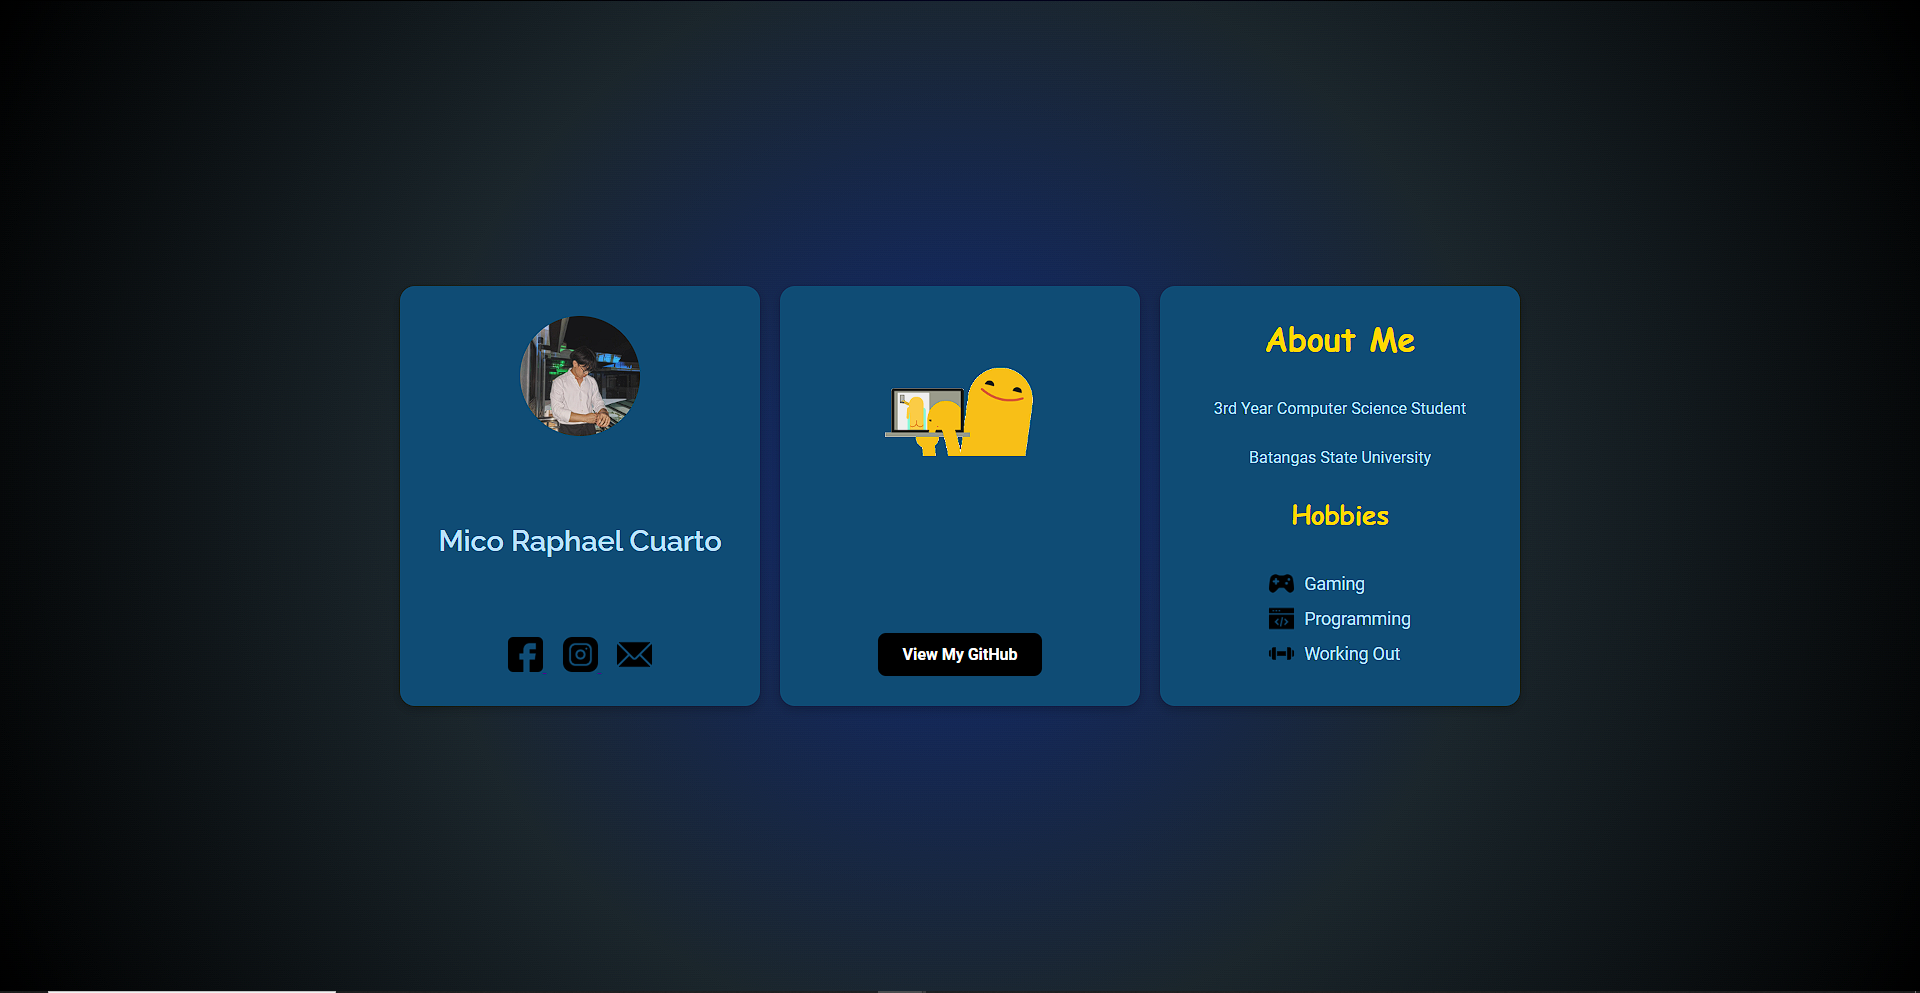
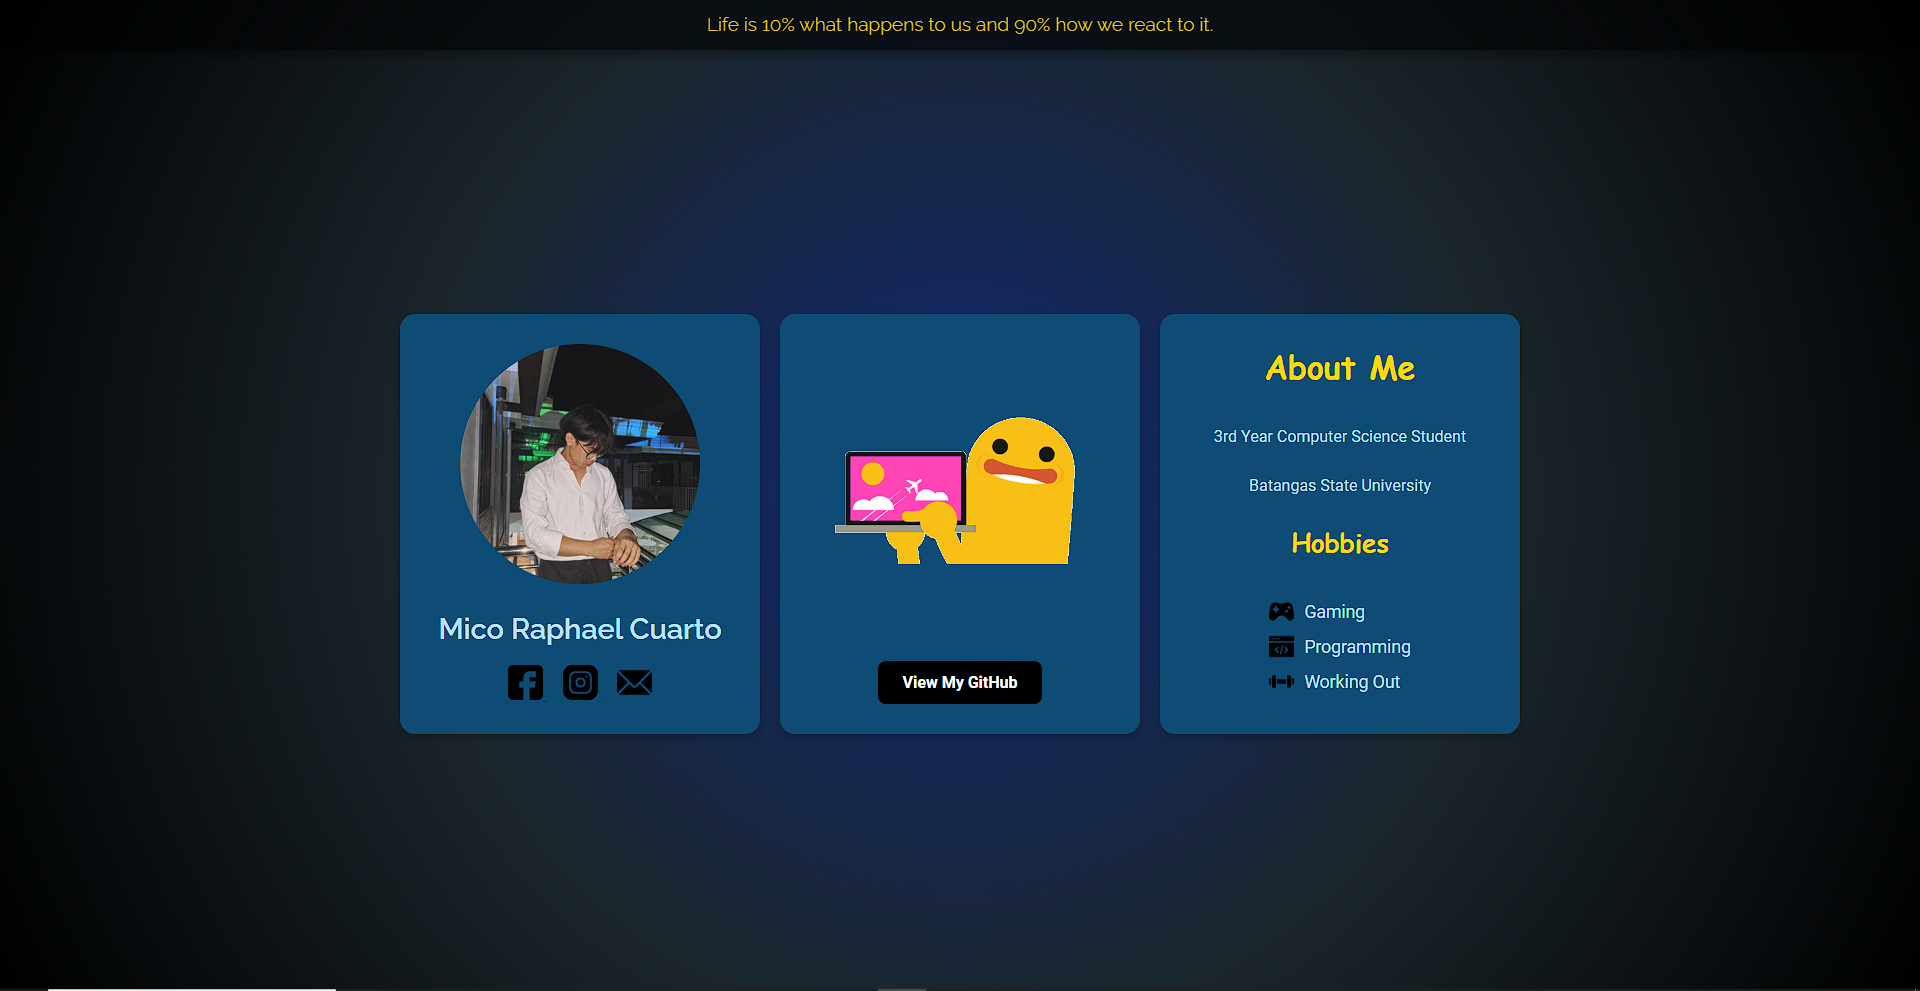
Submit final lab act 4

Changed region(s): [[0.1875, 0.2725, 0.8125, 0.7568], [0.2812, 0.0, 0.7188, 0.0605], [0.4375, 0.3633, 0.5625, 0.5752]]

diff --git a/Laboratory Activities/Laboratory Activity 4 {November 28, 2024}}/scripts.js b/Laboratory Activities/Laboratory Activity 4 {November 28, 2024}}/scripts.js
@@ -1,0 +1,82 @@
+const socialIcons = document.querySelectorAll('.social-links img');
+socialIcons.forEach(icon => {
+    icon.addEventListener('mouseover', () => {
+        icon.style.transform = 'scale(1.2)';
+        setTimeout(() => {
+            icon.style.transform = 'scale(1)';
+        }, 200);
+    });
+});
+
+
+const profileIcon = document.querySelector('.profile-icon');
+const modal = document.createElement('div');
+modal.innerHTML = `
+    <div style="position: fixed; top: 0; left: 0; width: 100%; height: 100%; background: rgba(0, 0, 0, 0.8); display: flex; justify-content: center; align-items: center; z-index: 1000;">
+        <img src="assets/profile.jpg" alt="Profile" style="max-width: 90%; max-height: 90%; border-radius: 10px;">
+    </div>
+`;
+modal.style.display = 'none';
+document.body.appendChild(modal);
+
+profileIcon.addEventListener('click', () => {
+    modal.style.display = 'flex';
+});
+
+modal.addEventListener('click', () => {
+    modal.style.display = 'none';
+});
+
+const githubButton = document.querySelector('.btn');
+githubButton.addEventListener('click', function (e) {
+    const rect = this.getBoundingClientRect();
+    const ripple = document.createElement('span');
+    ripple.style.left = `${e.clientX - rect.left}px`;
+    ripple.style.top = `${e.clientY - rect.top}px`;
+    ripple.classList.add('ripple');
+    this.appendChild(ripple);
+
+    setTimeout(() => {
+        ripple.remove();
+    }, 600);
+});
+
+const quotes = [
+    "The only limit to our realization of tomorrow is our doubts of today.",
+    "Success is not final, failure is not fatal: It is the courage to continue that counts.",
+    "Believe you can and you're halfway there.",
+    "It does not matter how slowly you go as long as you do not stop.",
+    "Act as if what you do makes a difference. It does.",
+    "The best way to predict the future is to create it.",
+    "Hardships often prepare ordinary people for an extraordinary destiny.",
+    "Doubt kills more dreams than failure ever will.",
+    "Dream big and dare to fail.",
+    "The only way to do great work is to love what you do.",
+    "You are never too old to set another goal or to dream a new dream.",
+    "Opportunities don't happen. You create them.",
+    "Your time is limited, so don't waste it living someone else's life.",
+    "Start where you are. Use what you have. Do what you can.",
+    "Success usually comes to those who are too busy to be looking for it.",
+    "Don’t watch the clock; do what it does. Keep going.",
+    "The way to get started is to quit talking and begin doing.",
+    "Perseverance is not a long race; it is many short races one after the other.",
+    "Life is 10% what happens to us and 90% how we react to it.",
+    "If you want to achieve greatness stop asking for permission.",
+    "The best time to plant a tree was 20 years ago. The second best time is now.",
+    "Don’t let yesterday take up too much of today.",
+    "Success is not how high you have climbed, but how you make a positive difference to the world.",
+    "The future belongs to those who believe in the beauty of their dreams.",
+    "You don't have to be great to start, but you have to start to be great.",
+    "Everything you’ve ever wanted is on the other side of fear.",
+    "Challenges are what make life interesting, and overcoming them is what makes life meaningful.",
+    "If you want to go fast, go alone. If you want to go far, go together."
+];
+
+
+function displayRandomQuote() {
+    const quoteContainer = document.getElementById('quote-container');
+    const randomQuote = quotes[Math.floor(Math.random() * quotes.length)];
+    quoteContainer.textContent = randomQuote;
+}
+
+window.onload = displayRandomQuote;

diff --git a/Laboratory Activities/Laboratory Activity 4 {November 28, 2024}}/styles.css b/Laboratory Activities/Laboratory Activity 4 {November 28, 2024}}/styles.css
@@ -15,6 +15,22 @@ body {
     min-height: 100vh;
 }
 
+#quote-container {
+    position: fixed;
+    top: 0;
+    width: 100%;
+    background-color: rgba(0, 0, 0, 0.6);
+    color: #FFD700;
+    font-family: 'Raleway', sans-serif;
+    text-align: center;
+    padding: 15px;
+    box-shadow: 0 4px 10px rgba(0, 0, 0, 0.4);
+    border-radius: 0 0 10px 10px;
+    font-size: 1.2rem;
+    z-index: 1000;
+    border-top: 50px;
+}
+
 /* Container */
 .container {
     display: flex;
@@ -23,9 +39,10 @@ body {
     align-items: flex-start;
     flex-wrap: wrap;
     max-width: 1200px;
-    padding: 20px;
+    padding: 80px 20px 20px; 
     width: 100%;
 }
+
 
 /* Box Styles */
 .box {
@@ -44,7 +61,7 @@ body {
     transition: transform 0.3s, box-shadow 0.3s;
 }
 
-/* Hover Effect */
+/* Hover */
 .box:hover {
     transform: translateY(-10px);
     box-shadow: 0 10px 20px rgba(0, 0, 0, 0.4);
@@ -52,8 +69,8 @@ body {
 
 /* Profile Card */
 .profile-icon {
-    width: 120px;
-    height: 120px;
+    width: 240px;
+    height: 240px;
     border-radius: 50%;
     background-color: #BBE1FA;
     background-image: url('assets/profile.jpg');
@@ -85,8 +102,8 @@ body {
 
 /* Intro Card */
 .intro-card img {
-    width: 150px;
-    height: 150px;
+    width: 250px;
+    height: 250px;
     object-fit: contain;
     margin: 20px auto;
 }
@@ -134,15 +151,47 @@ body {
     display: flex;
     align-items: center;
     margin-bottom: 10px;
+    transition: transform 0.3s;
 }
 
 .hobbies-card ul img {
     width: 25px;
     height: 25px;
     margin-right: 10px;
+    transition: transform 0.3s, filter 0.3s;
 }
 
-/* Responsive Design */
+.hobbies-card ul li:hover {
+    transform: scale(1.05);
+}
+
+.hobbies-card ul li:hover img {
+    transform: rotate(15deg);
+    filter: brightness(1.3);
+}
+
+.btn .ripple {
+    position: absolute;
+    border-radius: 50%;
+    background: rgba(255, 255, 255, 0.6);
+    width: 20px;
+    height: 20px;
+    animation: ripple-animation 0.6s linear;
+}
+
+@keyframes ripple-animation {
+    from {
+        transform: scale(0);
+        opacity: 1;
+    }
+    to {
+        transform: scale(4);
+        opacity: 0;
+    }
+}
+
+
+/* Responsiveness */
 @media (max-width: 768px) {
     .box {
         flex: 1 1 90%;

diff --git a/Laboratory Activities/Laboratory Activity 4 {November 28, 2024}}/index.html b/Laboratory Activities/Laboratory Activity 4 {November 28, 2024}}/index.html
@@ -8,6 +8,7 @@
     <link href="https://fonts.googleapis.com/css2?family=Roboto:wght@400;500;700&family=Raleway:wght@300;600&display=swap" rel="stylesheet">
 </head>
 <body>
+    <div id="quote-container"></div> <!-- Quote container stays at the top -->
     <div class="container">
         <!-- Profile Card -->
         <div class="box profile-card">
@@ -28,22 +29,24 @@
 
         <!-- Intro Card -->
         <div class="box intro-card">
-            <img src="assets/hello.gif">
+            <img src="assets/hello.gif" alt="Hello GIF">
             <a href="https://github.com/oocim" class="btn" target="_blank">View My GitHub</a>
         </div>
 
-        <!-- Hobbies and Contact Card -->
+        <!-- Hobbies Card -->
         <div class="box hobbies-card">
             <h2>About Me</h2>
             <p>3rd Year Computer Science Student</p>
             <p>Batangas State University</p>
             <h3>Hobbies</h3>
-            <ul>
-                <li><img src="assets/gaming.png" alt="Gaming Icon"> Gaming</li>
-                <li><img src="assets/programming.png" alt="Programming Icon"> Programming</li>
-                <li><img src="assets/gym.png" alt="Gym Icon"> Working Out</li>
+            <ul id="hobbies-list">
+                <li class="hobby-item"><img src="assets/gaming.png" alt="Gaming Icon"> Gaming</li>
+                <li class="hobby-item"><img src="assets/programming.png" alt="Programming Icon"> Programming</li>
+                <li class="hobby-item"><img src="assets/gym.png" alt="Gym Icon"> Working Out</li>
             </ul>
         </div>
     </div>
+
+    <script src="scripts.js"></script>
 </body>
 </html>
